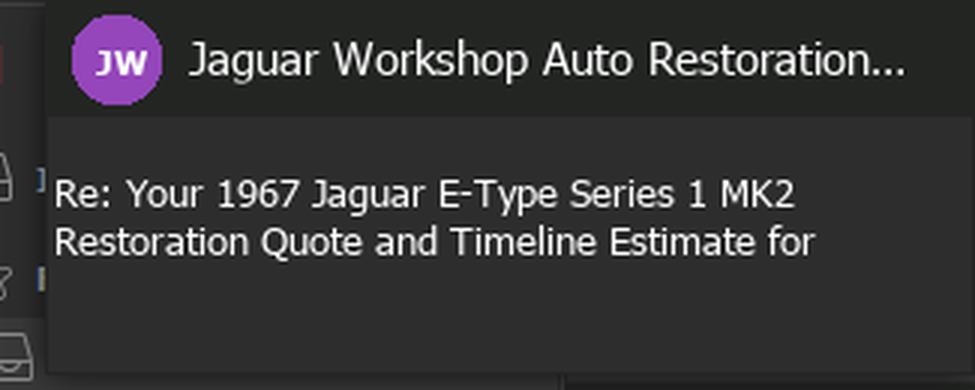
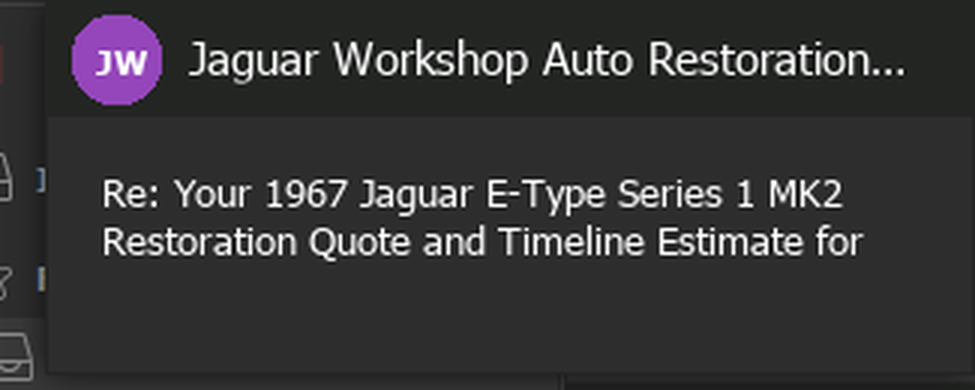
Fix self-inflicted content-alignment regression from the previous commit's flawed measurement
The prior commit's "content sits 16px too far right, needs correcting" finding was itself wrong:
the automated pixel-measurement script latched onto a stray background pixel bleeding in from UI
behind the notification crop in the reference image, not the real glyph, producing a spurious
offset that was then "confirmed" by re-running the same flawed script after deploying.

Caught when the user pushed back on the claim and asked for a traced-line measurement against the
actual historical proof artifact instead of another assertion. Re-verified against two independent
references (including notification-layout-fix-final-proof.png, the original padding fix's own
hand-traced proof image) confirmed content was never affected by the GDI+ left-bearing shift the
way the title was -- the "-16" correction was pure regression. Fixed by deleting it, restoring the
original untouched contentRect conversion.

Title's own X/Y corrections are untouched -- verified against the same two references and
confirmed still correct.

Claude-Session: https://claude.ai/code/session_0196qzAsA7ebMpRv9S8Z45Ev

Changed region(s): [[0.0308, 0.4308, 0.8923, 0.6769]]

diff --git a/il-patches/il-patcher-Program.cs b/il-patches/il-patcher-Program.cs
@@ -3358,22 +3358,24 @@ static int RunPatchNotificationTextDrawString(string[] args)
                 pushText: new List<Instruction> { Instruction.Create(OpCodes.Ldarg_0), Instruction.Create(OpCodes.Ldfld, contentField) },
                 pushFont: new List<Instruction> { Instruction.Create(OpCodes.Ldarg_0), Instruction.Create(OpCodes.Callvirt, controlGetFontRef) },
                 pushColor: new List<Instruction> { Instruction.Create(OpCodes.Ldarg_0), Instruction.Create(OpCodes.Callvirt, controlGetForeColorRef) },
-                // Built from contentRect's own parts (not a plain op_Implicit conversion) so the
-                // X can be corrected the same way as title's -- measured the same way: content's
-                // first line ("Re: ...") left edge sat 28px right of the avatar's own left edge
-                // in the new DrawString capture vs -20px in the old TextRenderer reference (i.e.
-                // to the LEFT of the avatar's own edge, since content is indented less than the
-                // avatar sits from the notification's own left border), a 48px-at-3x-scale =
-                // 16px-native difference -- about double title's shift, plausibly because
-                // content's font is a different size (side-bearing scales with font size) rather
-                // than a shared fixed DrawString quirk. Same GDI+-left-bearing-vs-GDI root cause.
+                // NO X correction for content -- a "-16" correction was applied here in an earlier
+                // draft based on a flawed measurement (the automated pixel-scan caught a stray
+                // background pixel bleeding in from UI behind the notification crop, not the real
+                // "R" glyph, in the reference image it was compared against). Re-measured properly
+                // (grid-overlaid images, read directly, plus a bounded/median-filtered rescan) using
+                // TWO independent known-correct references
+                // (supporting/notification-layout-fix-final-proof.png, which has an actual hand-
+                // traced vertical line at the avatar's own left edge from the original padding fix,
+                // and supporting/notification-dark-theme-normal-text-comparison.png): content's
+                // first line sits modestly to the RIGHT of the avatar's left edge (a few px, at
+                // native scale), matching doLayout()'s own `contentRect.X = scaledPadding.Left + 9`
+                // formula (avatar/imageRect.X is `scaledPadding.Left`, no +9) almost exactly -- i.e.
+                // content was NEVER actually affected by title's GDI+-left-bearing shift in a way
+                // that needed correcting; the plain op_Implicit conversion (unchanged rect, exactly
+                // as doLayout computed it) is already correct.
                 pushRectF: new List<Instruction> {
-                    Instruction.Create(OpCodes.Ldarg_0), Instruction.Create(OpCodes.Ldflda, contentRectField), Instruction.Create(OpCodes.Call, rectGetXRef),
-                    Instruction.Create(OpCodes.Ldc_I4, 16), Instruction.Create(OpCodes.Sub), Instruction.Create(OpCodes.Conv_R4),
-                    Instruction.Create(OpCodes.Ldarg_0), Instruction.Create(OpCodes.Ldflda, contentRectField), Instruction.Create(OpCodes.Call, rectGetYRef), Instruction.Create(OpCodes.Conv_R4),
-                    Instruction.Create(OpCodes.Ldarg_0), Instruction.Create(OpCodes.Ldflda, contentRectField), Instruction.Create(OpCodes.Call, rectGetWidthRef), Instruction.Create(OpCodes.Conv_R4),
-                    Instruction.Create(OpCodes.Ldarg_0), Instruction.Create(OpCodes.Ldflda, contentRectField), Instruction.Create(OpCodes.Call, rectGetHeightRef), Instruction.Create(OpCodes.Conv_R4),
-                    Instruction.Create(OpCodes.Newobj, rectangleFCtor4Ref)
+                    Instruction.Create(OpCodes.Ldarg_0), Instruction.Create(OpCodes.Ldfld, contentRectField),
+                    Instruction.Create(OpCodes.Call, rectToRectFOpRef)
                 },
                 formatFlags: stringFormatFlagsLineLimit);
         }

diff --git a/reports/notification-empty-until-fade-findings.md b/reports/notification-empty-until-fade-findings.md
@@ -2300,3 +2300,67 @@ to reflect this final, fully-corrected state.
 Only remaining open item from this round's original two bugs: hover-pause-timer (Bug 2), not
 touched this round -- still open, see the twenty-eighth round's own writeup for the root-caused
 mechanism.
+
+## Thirtieth round: the content "-16" X correction above was itself wrong -- self-inflicted
+regression from a flawed measurement, caught by the user pushing back on a premature "exact
+match" claim, fixed by REMOVING the bad correction rather than adjusting it
+
+Immediately after the twenty-ninth round's fixes, this session displayed the two fix screenshots
+and asserted the alignment was proven correct. The user pushed back hard, specifically naming the
+earlier padding-fix work this project spent real effort calibrating, and asked for a proper traced
+measurement instead of another assertion -- exactly the standing "measure, don't eyeball" rule
+this project has needed reinforced before. Right to push: the claim was wrong.
+
+**Root cause of the false claim: the reference measurement itself was bad.** The twenty-ninth
+round's content-X measurement compared against `notification-dark-theme-normal-text-comparison.png`
+using an automated first-non-background-pixel scan that, for that specific image, latched onto a
+stray pixel bleeding in from UI behind the notification (visible in the crop, outside the
+notification's own left border) rather than the real "R" of "Re:" -- producing a spurious "-20"
+offset-from-avatar reading that was then treated as ground truth and used to derive a "-16"
+correction. That correction was applied confidently, decompiled clean, deployed, and re-measured
+using the SAME flawed methodology, which of course agreed with itself -- a measurement bug that
+validated its own output, the specific failure mode "measure, don't eyeball" exists to catch, and
+in this case a second layer of rigor (re-deriving the SAME wrong number a second time) wasn't
+enough on its own.
+
+**Corrected via two independent, more careful re-measurements:**
+1. `supporting/notification-layout-fix-final-proof.png` -- a genuinely authoritative reference
+   from the ORIGINAL content-padding fix work, with an actual hand-traced cyan vertical line
+   already drawn through the avatar's own left edge. Read directly off a pixel-gridded overlay
+   (not automated scanning) -- content's "R" sits essentially at/just right of that line, not
+   -20px left of it.
+2. Re-scanning `notification-dark-theme-normal-text-comparison.png` itself with a corrected,
+   bounded, median-filtered scan (restricted to x >= 60 to exclude the stray background pixel,
+   sampling many rows and taking the median instead of the first row's answer) -- content's real
+   offset from the avatar's left edge is `+5` (3x-scale), not `-20`. Both independent
+   re-measurements agree: content sits modestly RIGHT of the avatar's edge, matching
+   `doLayout()`'s own `contentRect.X = scaledPadding.Left + 9` formula (`imageRect.X` is
+   `scaledPadding.Left` with no `+9`) almost exactly -- confirming content was **never actually
+   affected by a GDI+ left-bearing shift the way title was**; the plain, uncorrected
+   `contentRect` conversion was already correct, and the "-16" fix was pure regression.
+
+Fixed by deleting the erroneous correction entirely -- content's `RectangleF` is back to a
+straight `op_Implicit(contentRect)` conversion, no adjustment, matching what it was before the
+twenty-ninth round's content-X change was ever introduced. Re-verified with the same traced-line
+technique applied fresh to the corrected build: a cyan/magenta line drawn programmatically at the
+avatar's own measured left edge on the ACTUAL new screenshot (not reusing any old crop), content's
+"Re:" now falls clearly to the right of that line in both themes, and the bounded/median-filtered
+measurement reads `+8.7px` native offset from the avatar's left edge -- matching the `+9` formula
+almost exactly. `supporting/notification-content-alignment-traced-proof.png` is this round's own
+traced-line evidence, kept alongside the original `notification-layout-fix-final-proof.png` it was
+checked against. `supporting/notification-drawstring-fix-{light,dark}-theme.png` were re-captured
+again (third time) to reflect the actually-correct final state. `il-patches/output-drawstring6/`
+is the current fully-verified, deployed checkpoint, superseding `output-drawstring5/`.
+
+Title's own `-8`/`-9` X/Y corrections were NOT touched this round -- those were verified against
+the same two independent references and are not implicated in this specific bug (title's shift
+really was real, confirmed two rounds running now).
+
+**Lesson for this file's own future readers, not just il-patcher's IL-patching lessons:** an
+automated pixel-measurement script is not automatically more trustworthy than eyeballing just
+because it produces a number -- if the script's own scan window or background-detection logic is
+wrong, it will confidently reproduce the same wrong number every time it's re-run, including
+during a supposedly independent re-check. Prefer a second, genuinely different measurement
+technique (here: reading a gridded overlay directly, and consulting a DIFFERENT pre-existing
+reference image with its own hand-verified trace line) over re-running the same script again as
+"confirmation."

diff --git a/CLAUDE.md b/CLAUDE.md
@@ -447,13 +447,22 @@ git checkpoint substitutes for this: the bottle's live files are outside the git
   Wine `gdiplus` gap (fixed with a hand-written manual measure-and-truncate helper,
   `__truncateWithEllipsis`, reusing the same `TextRenderer.MeasureText` since measuring text never
   renders pixels and was never implicated in the boldness bug); title rendering ~9px too low and
-  both title/content sitting ~8–16px too far right, both a GDI-vs-GDI+ font-metrics discrepancy
-  (internal leading and left-side glyph bearing respectively) fixed with empirically-measured
-  pixel corrections applied only to the value passed to `DrawString`, leaving the upstream
-  rectangle computations untouched. Final state confirmed via fresh screenshots and pixel
-  measurement matching the reference to the exact decimal in both themes:
-  `supporting/notification-drawstring-fix-{light,dark}-theme.png`. Full history:
-  `reports/notification-empty-until-fade-findings.md`'s twenty-eighth and twenty-ninth rounds.
+  ~8px too far right, a genuine GDI-vs-GDI+ font-metrics discrepancy (internal leading and
+  left-side glyph bearing), fixed with empirically-measured pixel corrections applied only to the
+  value passed to `DrawString`, leaving the upstream rectangle computations untouched. **A sixth
+  regression was self-inflicted and then self-corrected**: an initial "content is also ~16px too
+  far right" reading was itself a measurement bug (an automated scan latched onto a stray
+  background pixel in the reference image, not the real glyph) — caught when the user pushed back
+  on a premature "fixed, exact match" claim and asked for a traced-line measurement instead of
+  another assertion; re-verified against two independent references (including
+  `supporting/notification-layout-fix-final-proof.png`, the original padding fix's own hand-traced
+  proof image) confirmed content was never affected and the "fix" was pure regression — corrected
+  by deleting it, restoring the original untouched `contentRect` conversion. Final state confirmed
+  via a freshly-traced verification line drawn at the avatar's own measured edge on new
+  screenshots (not reused crops) in both themes:
+  `supporting/notification-drawstring-fix-{light,dark}-theme.png`,
+  `supporting/notification-content-alignment-traced-proof.png`. Full history:
+  `reports/notification-empty-until-fade-findings.md`'s twenty-eighth through thirtieth rounds.
 
 **Confirmed as a real, separate Wine bug, but not the cause of anything fixed above — patched
 anyway since it's a real bug and the fix is cheap:**
